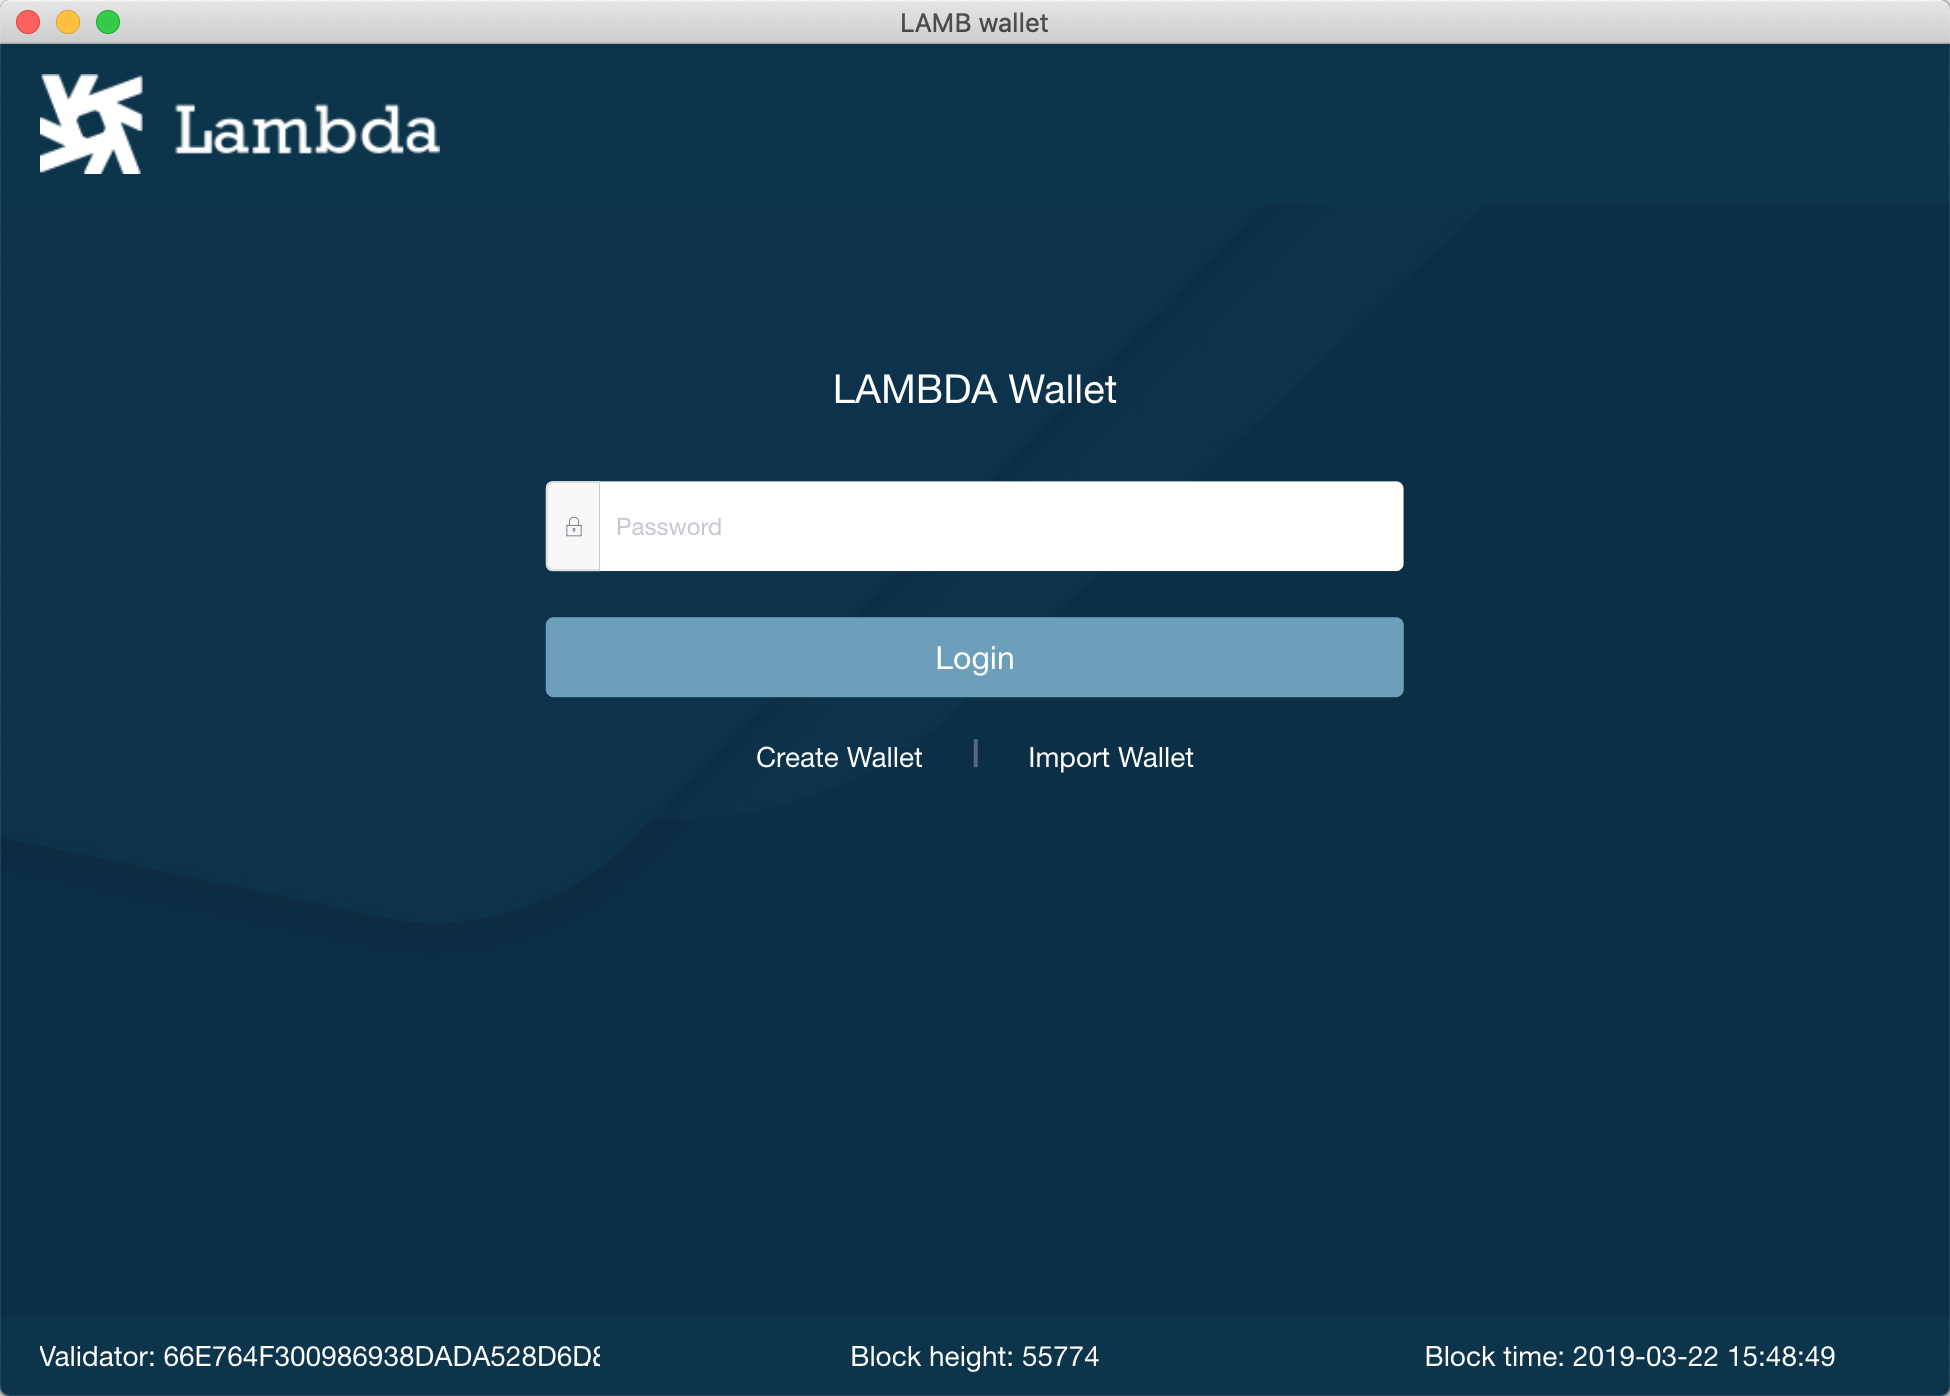
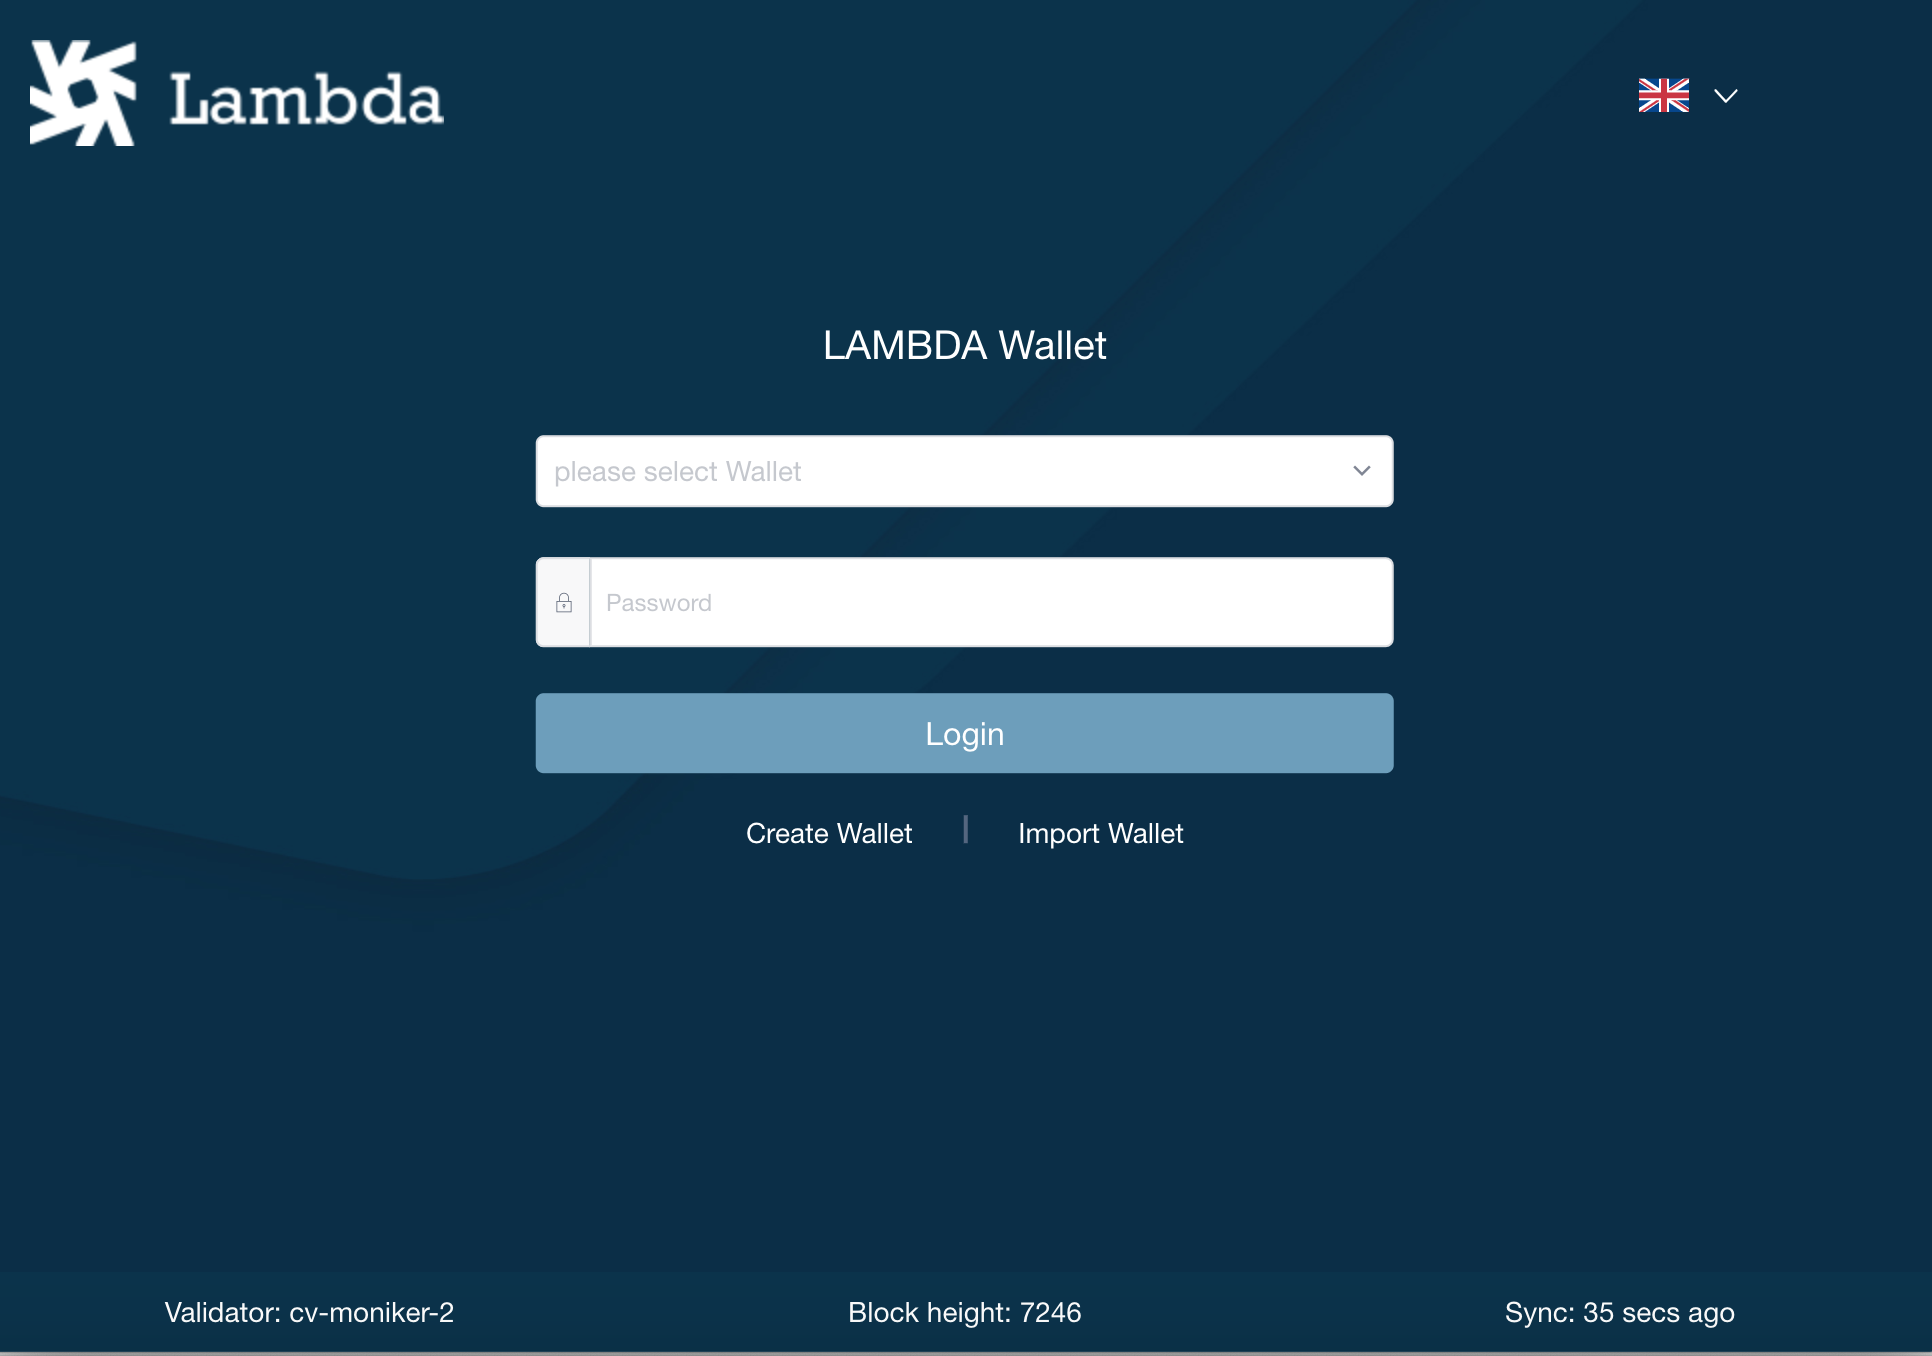
文案修改

Changed region(s): [[0.2795, 0.2478, 0.7453, 0.6195], [0.0, 0.0, 1.0, 0.1239], [0.0, 0.9602, 1.0, 1.0]]

diff --git a/Lambda Wallet 钱包使用说明.md b/Lambda Wallet 钱包使用说明.md
@@ -1,5 +1,12 @@
 # Lambda Wallet 钱包使用说明
-版本 0.1.1 一个钱包支持一个账号，新建账号之前的账号配置文件会被覆盖，请注意备份账号配置文件，避免账号信息丢失
+版本 0.1.10 
+
+一个钱包支持创建和管理多个账户，支持语言有中文和英文。
+
+
+下载地址 ：[https://github.com/LambdaIM/launch/releases/tag/0.1.10](https://github.com/LambdaIM/launch/releases/tag/0.1.10)
+
+
 
 ![avatar](img/wallethome@2x.png)
 
@@ -48,7 +55,9 @@
 通过lambda**********.keyinfo可以再次导入钱包
 
 通过钱包创建账号到此完成
+
 ##助记词倒入到节点的验证程序
+
 创建账号后，保存好助记次，助记次支持导入到验证节点程序中
 助记词导入到节点
 
